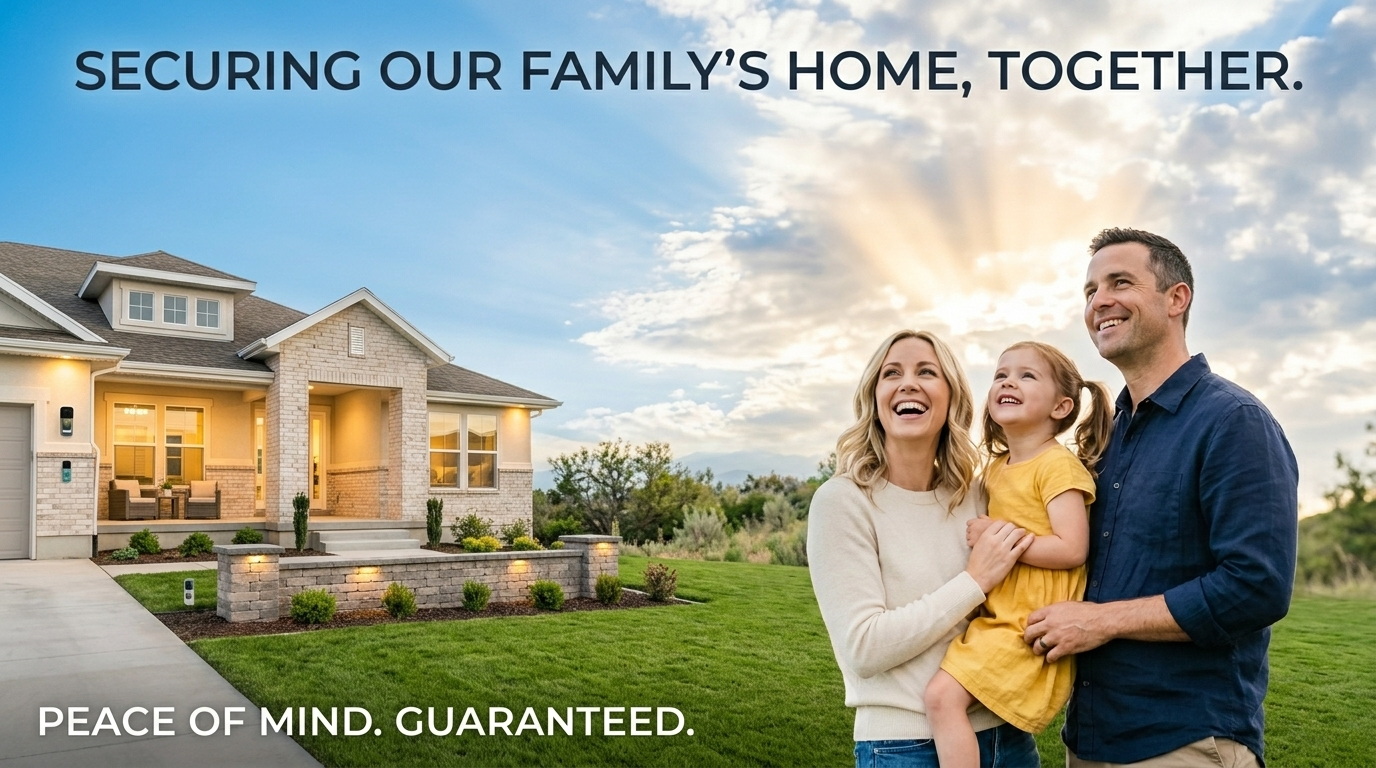
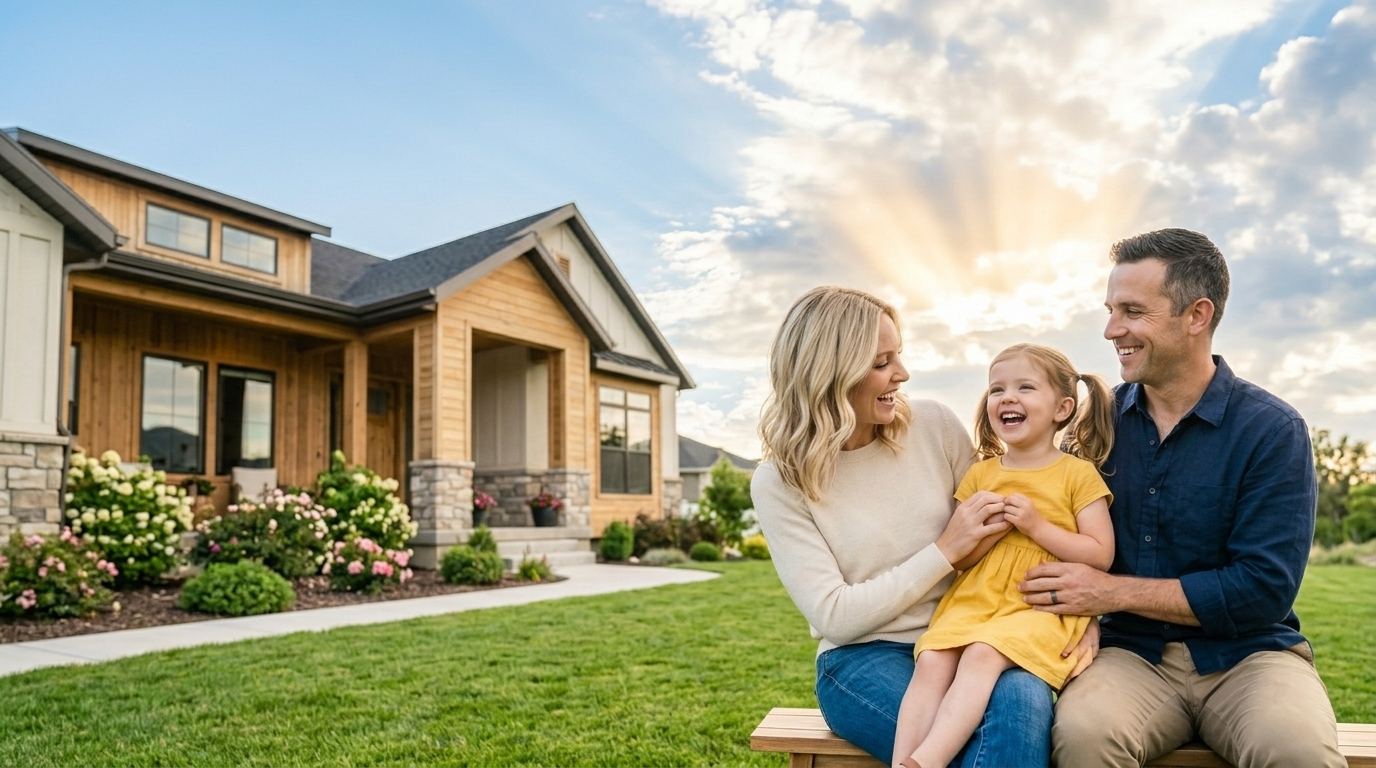
remove 5th hero image (car) and regenerate other hero images without text

diff --git a/index.html b/index.html
@@ -155,7 +155,6 @@
             <img id="hero-bg-2" class="absolute inset-0 w-full h-full object-cover transition-opacity duration-1000 opacity-0" src="trust_hero_2.jpg" alt="Finansal Koruma">
             <img id="hero-bg-3" class="absolute inset-0 w-full h-full object-cover transition-opacity duration-1000 opacity-0" src="trust_hero_3.jpg" alt="Huzurlu Yuva">
             <img id="hero-bg-4" class="absolute inset-0 w-full h-full object-cover transition-opacity duration-1000 opacity-0" src="trust_hero_4.jpg" alt="Aile Güvencesi">
-            <img id="hero-bg-5" class="absolute inset-0 w-full h-full object-cover transition-opacity duration-1000 opacity-0" src="trust_hero_5.jpg" alt="Güvenli Yolculuk">
         </div>
         <!-- Karartma ve Renk Geçiş Overlay (Yazıların okunması için solda daha yoğun karartma) -->
         <div class="absolute inset-0 bg-gradient-to-r from-slate-950/90 via-slate-900/60 to-transparent -z-10"></div>
@@ -723,7 +722,7 @@
 
         // Hero Background Carousel Logic
         let currentHeroBg = 0;
-        const totalHeroBgs = 6;
+        const totalHeroBgs = 5;
         function rotateHeroBg() {
             const nextHeroBg = (currentHeroBg + 1) % totalHeroBgs;
             const currentEl = document.getElementById(`hero-bg-${currentHeroBg}`);
